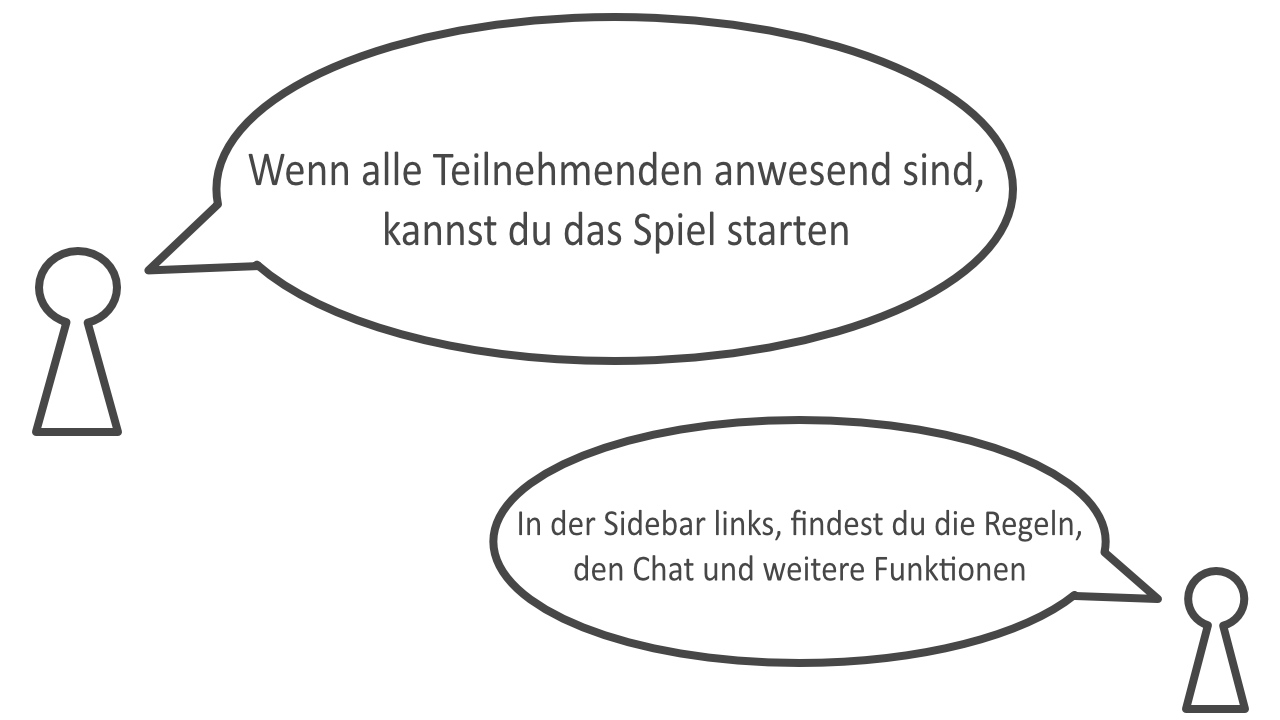
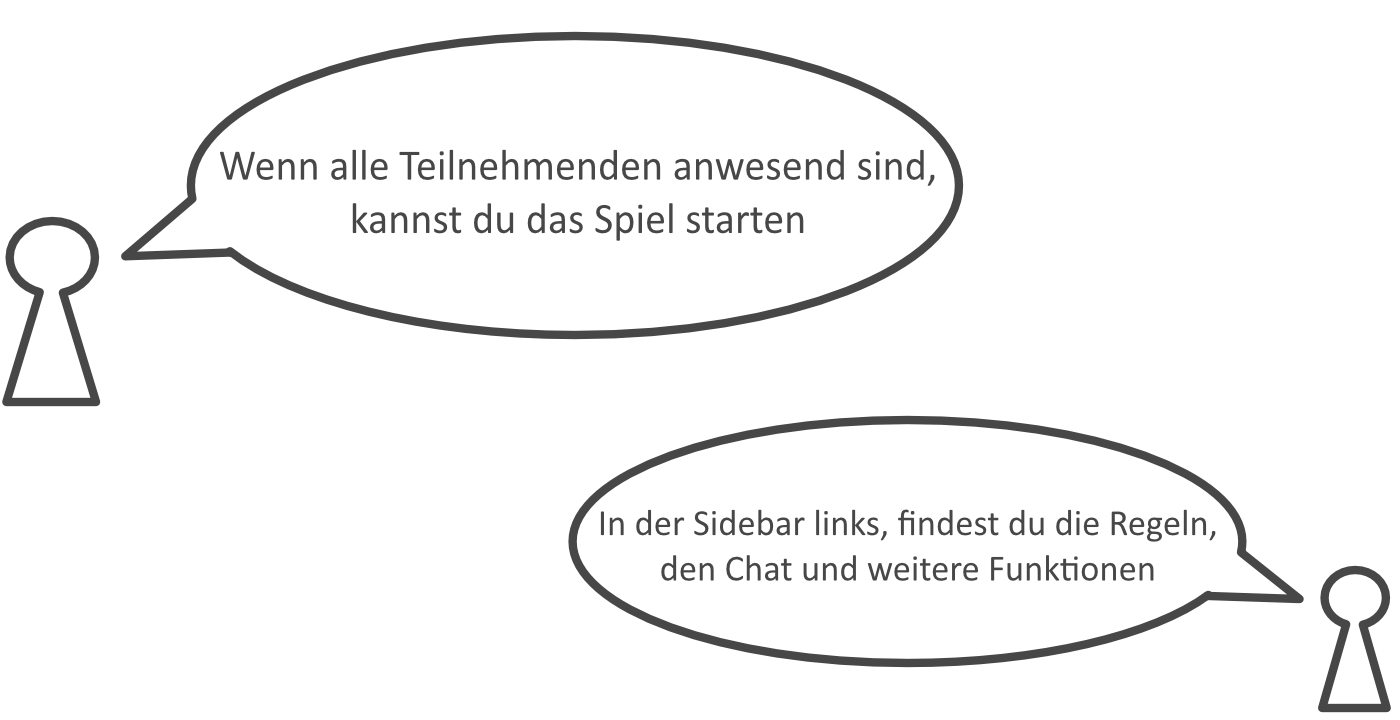
changed images Lobby

Changed region(s): [[0.0, 0.0, 0.8125, 0.6111], [0.375, 0.5806, 1.0, 1.0], [0.25, 0.4278, 0.6562, 0.5194]]

diff --git a/frontend/src/components/Lobby/StartGame/StartGame.js b/frontend/src/components/Lobby/StartGame/StartGame.js
@@ -67,7 +67,7 @@ function Chat(props) {
   if(isHost) {
     return (
         <div className='start-game'>
-            <img src={SprechblaseHost} alt="Wenn alle Teilnehmer anwesend sind, kannst du das Spiel starten. In der Sidebar links, findest du Regeln, Chat und weitere Funktionen."  className="speechbubble"></img>
+            <img src={SprechblaseHost} alt="Wenn alle Teilnehmenden anwesend sind, kannst du das Spiel starten. In der Sidebar links, findest du Regeln, Chat und weitere Funktionen."  className="speechbubble"></img>
             <div className="d-flex justify-content-center">
             <input className='start-game-btn btn-lg btn-dark' type='button' value='Spiel starten' onClick={ startGame } />
             </div>
@@ -79,7 +79,7 @@ function Chat(props) {
   } else {
     return (
         <div className='start-game'>
-            <img src={SprechblaseGast} alt="Der Host wird das Spiel in Kürze starten. In der Sidebar links, findest du Regeln, Chat und weitere Funktionen." className="speechbubble"></img>
+            <img src={SprechblaseGast} alt="Das Spiel wird in Kürze gestartet. In der Sidebar links, findest du Regeln, Chat und weitere Funktionen." className="speechbubble"></img>
         </div>
       );
   }

diff --git a/frontend/src/components/Footer/Footer.css b/frontend/src/components/Footer/Footer.css
@@ -44,6 +44,27 @@ body{
     margin-right: 300px;
 }
 
+@media  screen and (min-width: 1200px) {
+    .question-faq{
+        margin-left: 380px;
+        margin-right: 300px;
+        font-size: x-large;
+    }
+    
+    .faq-question-text{
+        font-size: x-large;
+    }
+    
+    #paragraph-faq{
+        font-size: large;
+        margin-left: 300px;
+        margin-right: 300px;
+        margin-top: 40px;
+        padding-bottom: 60px;
+    }
+    
+}
+
 .question-faq{
     margin-left: 280px;
     margin-right: 200px;

diff --git a/frontend/src/components/Ludo/Ludo.css b/frontend/src/components/Ludo/Ludo.css
@@ -89,17 +89,17 @@ html, body, #root, .game-wrapper, .container-fluid, .game-body {
   }
   #dice{
     zoom:1;
-    top: -30px;
+    top: -20px;
   }
 }
 
 @media screen and (min-width: 1260px) {
   .matchfield{
-    zoom:1.2;
+    zoom:1;
   }
   #dice{
     zoom:1.2;
-    top: -30px;
+    top: -20px;
   }
 }
 
